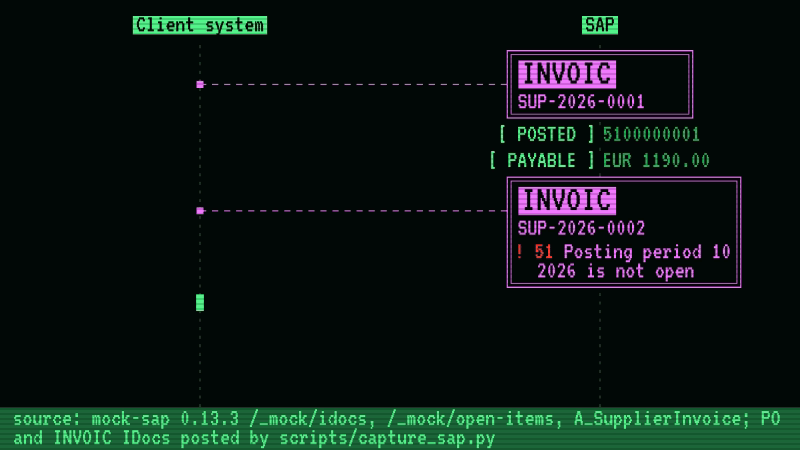
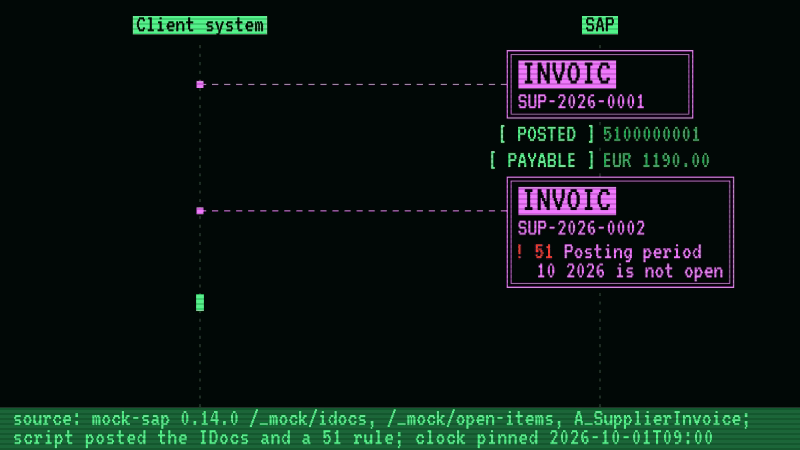
Projects page: the current cut of the sap_invoices film
The old cut showed SUP-2026-0002 refused with status 51 without saying the
film's script asked mock-sap for that refusal. The current cut from
mock-films (main, ebb4671) says so in its status line, and the alt text and
caption now say it too. They are interim until the mock-films index
publishes its own alt and caption for this film.

Claude-Session: https://claude.ai/code/session_015RDTBgG3oYVSZTAaz1gNwq

Changed region(s): [[0.0, 0.9022, 0.9062, 0.9956], [0.6562, 0.3733, 0.9375, 0.6533], [0.9375, 0.9022, 0.9688, 0.9333]]

diff --git a/index.html b/index.html
@@ -21,9 +21,9 @@ title: Rick Seufert
 		<figure class="film">
 			<picture>
 				<source media="(prefers-reduced-motion: reduce)" srcset="/blog/sap_invoices.png">
-				<img src="/blog/sap_invoices.gif" width="800" height="450" alt="Animated sequence diagram: a client system sends two INVOIC IDocs to mock-sap. SUP-2026-0001 posts as supplier invoice 5100000001, payable EUR 1190.00. SUP-2026-0002 fails with status 51: posting period 10 2026 is not open.">
+				<img src="/blog/sap_invoices.gif" width="800" height="450" alt="Animated sequence diagram: a client system sends two INVOIC IDocs to mock-sap. SUP-2026-0001 posts as supplier invoice 5100000001, payable EUR 1190.00. SUP-2026-0002 fails with status 51, posting period 10 2026 is not open: a rule the film's script set in mock-sap, as its status line says.">
 			</picture>
-			<figcaption>two INVOICs in: one becomes a payable, one stops at status 51 <span>filmed with mock-films</span></figcaption>
+			<figcaption>two INVOICs in: one becomes a payable, one stops at a status 51 the script asked for <span>filmed with mock-films</span></figcaption>
 		</figure>
 		<p>A black-box mock SAP endpoint. It speaks the shapes, not the business logic: SAP Gateway OData V2 and V4 services, BAPI/RFC calls over JSON and SOAP, and IDocs in XML and flat-file form, all backed by SQLite.</p>
 		<ul class="features">
